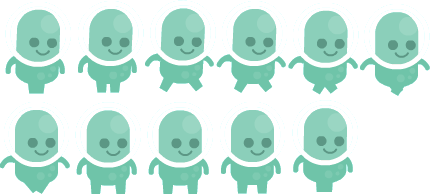
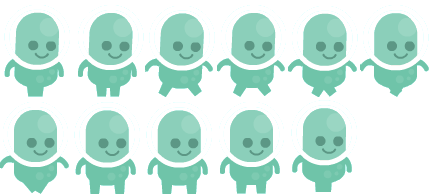
Cleaned up walking, adding basic jumping.

diff --git a/data/sprites/player.py b/data/sprites/player.py
@@ -18,6 +18,7 @@ class Player(pg.sprite.Sprite):
         self.state = c.STANDING
         self.walking_image_dict = self.make_walking_image_dict()
         self.standing_image_dict = self.make_standing_image_dict()
+        self.jumping_image_dict = self.make_jumping_image_dict()
         self.index = 0
         self.timer = 0.0
         self.direction = c.RIGHT
@@ -31,10 +32,11 @@ class Player(pg.sprite.Sprite):
         Make the dictionary of state methods for player.
         """
         state_dict = {c.STANDING: self.standing,
-                      c.WALKING: self.walking}
+                      c.WALKING: self.walking,
+                      c.JUMPING: self.jumping}
         return state_dict
 
-    def standing(self, keys, current_time):
+    def standing(self, keys, current_time, dt):
         """
         State when player is still.
         """
@@ -50,28 +52,64 @@ class Player(pg.sprite.Sprite):
             self.direction = c.LEFT
             self.state = c.WALKING
             self.timer = current_time
+        if keys[pg.K_SPACE]:
+            self.enter_jump_state()
 
-    def walking(self, keys, current_time):
+    def walking(self, keys, current_time, dt):
         """
         State when player is walking.
         """
         self.image_list = self.walking_image_dict[self.direction]
         self.image = self.image_list[self.index]
+        self.animate(current_time, dt)
 
-        if (current_time - self.timer) > 100:
+        if keys[pg.K_RIGHT]:
+            self.direction = c.RIGHT
+        elif keys[pg.K_LEFT]:
+            self.direction = c.LEFT
+        if keys[pg.K_SPACE]:
+            self.enter_jump_state()
+
+    def animate(self, current_time, dt):
+        """
+        Animate sprite.
+        """
+        if (current_time - self.timer) > self.get_animation_speed(dt):
             self.timer = current_time
             if self.index < (len(self.image_list) - 1):
                 self.index += 1
             else:
                 self.index = 0
 
+    def get_animation_speed(self, dt):
+        """
+        Calculate frame frequency by x_vel.
+        """
+        if self.x_vel == 0:
+            frequency = c.SLOWEST_FREQUENCY
+        elif self.x_vel > 0:
+            frequency = c.SLOWEST_FREQUENCY - (self.x_vel * 11 * dt)
+        else:
+            frequency = c.SLOWEST_FREQUENCY - (self.x_vel * dt * 11 * -1)
+
+        return frequency
+
+    def enter_jump_state(self):
+        """
+        Set values to enter jump state.
+        """
+        self.state = c.JUMPING
+        self.y_vel = c.START_JUMP_VEL
+
+    def jumping(self, keys, current_time, dt):
+        """
+        Jumping state.
+        """
+        self.image = self.jumping_image_dict[self.direction]
         if keys[pg.K_RIGHT]:
             self.direction = c.RIGHT
         elif keys[pg.K_LEFT]:
             self.direction = c.LEFT
-
-
-
 
 
     def make_walking_image_dict(self):
@@ -107,6 +145,7 @@ class Player(pg.sprite.Sprite):
                                                  width, height,
                                                  sprite_sheet))
         walking_images.pop(-1)
+        #walking_images.pop(-1)
 
         if reverse_images:
             flipped_images = []
@@ -126,8 +165,19 @@ class Player(pg.sprite.Sprite):
         return {c.RIGHT: right_image,
                 c.LEFT: left_image}
 
-    def update(self, keys, current_time):
+    def make_jumping_image_dict(self):
+        """
+        Make the list of the jumping images.
+        """
+        sheet = setup.GFX['p1_jumping']
+        right_image = self.get_image(0, 0, 66, 97, sheet)
+        left_image = self.get_image(66, 0, 66, 97, sheet)
+
+        return {c.RIGHT: right_image,
+                c.LEFT: left_image}
+
+    def update(self, keys, current_time, dt):
         state_function = self.state_dict[self.state]
-        state_function(keys, current_time)
+        state_function(keys, current_time, dt)
 
 

diff --git a/data/collision.py b/data/collision.py
@@ -19,13 +19,13 @@ class CollisionHandler(object):
     def update(self, keys, current_time, dt):
         if self.player.state == c.WALKING:
             self.update_walking_player(keys, dt)
+        elif self.player.state == c.JUMPING:
+            self.update_jumping_player(keys, dt)
 
     def update_walking_player(self, keys, dt):
         """
         Move player when walking
         """
-        RESISTANCE = 2
-
         if keys[pg.K_RIGHT]:
             self.player.direction = c.RIGHT
             self.player.x_vel += (c.MAX_SPEED - self.player.x_vel) * .1
@@ -40,11 +40,21 @@ class CollisionHandler(object):
                 self.player.x_vel += (0 - self.player.x_vel) * .1
 
 
-        self.player.rect.x += self.player.x_vel
+        self.player.rect.x += self.player.x_vel * dt
 
         if self.player.x_vel > 0:
-            if math.floor(self.player.x_vel) == 0.0:
+            if self.player.x_vel <= 25.0:
                 self.player.state = c.STANDING
+                self.player.x_vel = 0
         else:
-            if math.ceil(self.player.x_vel) == 0.0:
+            if self.player.x_vel >= -25.0:
                 self.player.state = c.STANDING
+
+    def update_jumping_player(self, keys, dt):
+        """
+        Move player while jumping
+        """
+        self.player.rect.x += self.player.x_vel * dt
+        self.player.rect.y += self.player.y_vel * dt
+        self.player.y_vel += c.GRAVITY * dt
+

diff --git a/data/states/level.py b/data/states/level.py
@@ -65,7 +65,7 @@ class Level(tools._State):
         """
         Update level normally.
         """
-        self.player.update(keys, current_time)
+        self.player.update(keys, current_time, dt)
         self.sprites.update(current_time)
         self.collision_handler.update(keys, current_time, dt)
         self.viewport_update()

diff --git a/data/constants.py b/data/constants.py
@@ -13,9 +13,13 @@ NORMAL = 'normal'
 #Player states
 STANDING = 'standing'
 WALKING = 'walking'
+JUMPING = 'jump'
 
 #PLAYER values
-MAX_SPEED = 10
+MAX_SPEED = 450
+SLOWEST_FREQUENCY = 100
+START_JUMP_VEL = -800
+GRAVITY = 2000
 
 #FONTS
 MAIN_FONT = 'DroidSans'
